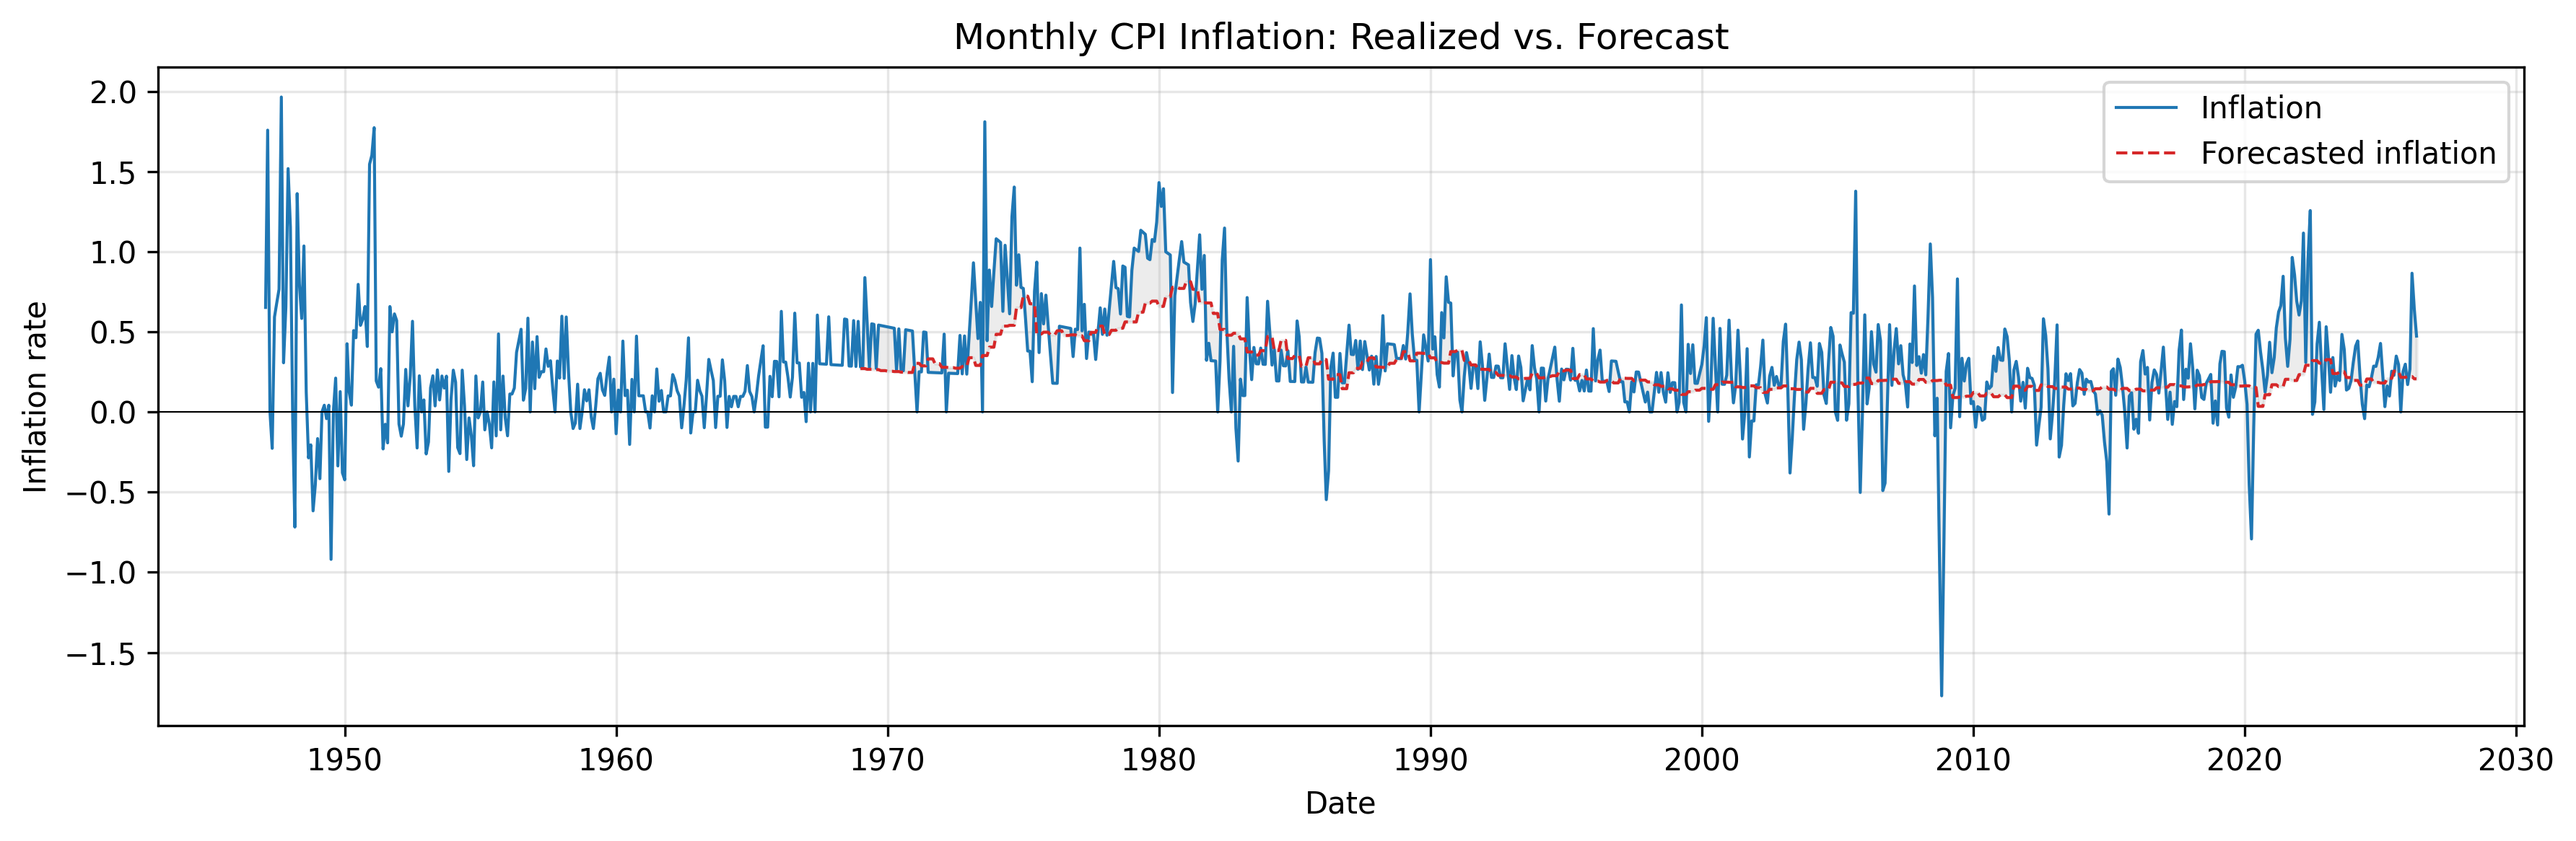
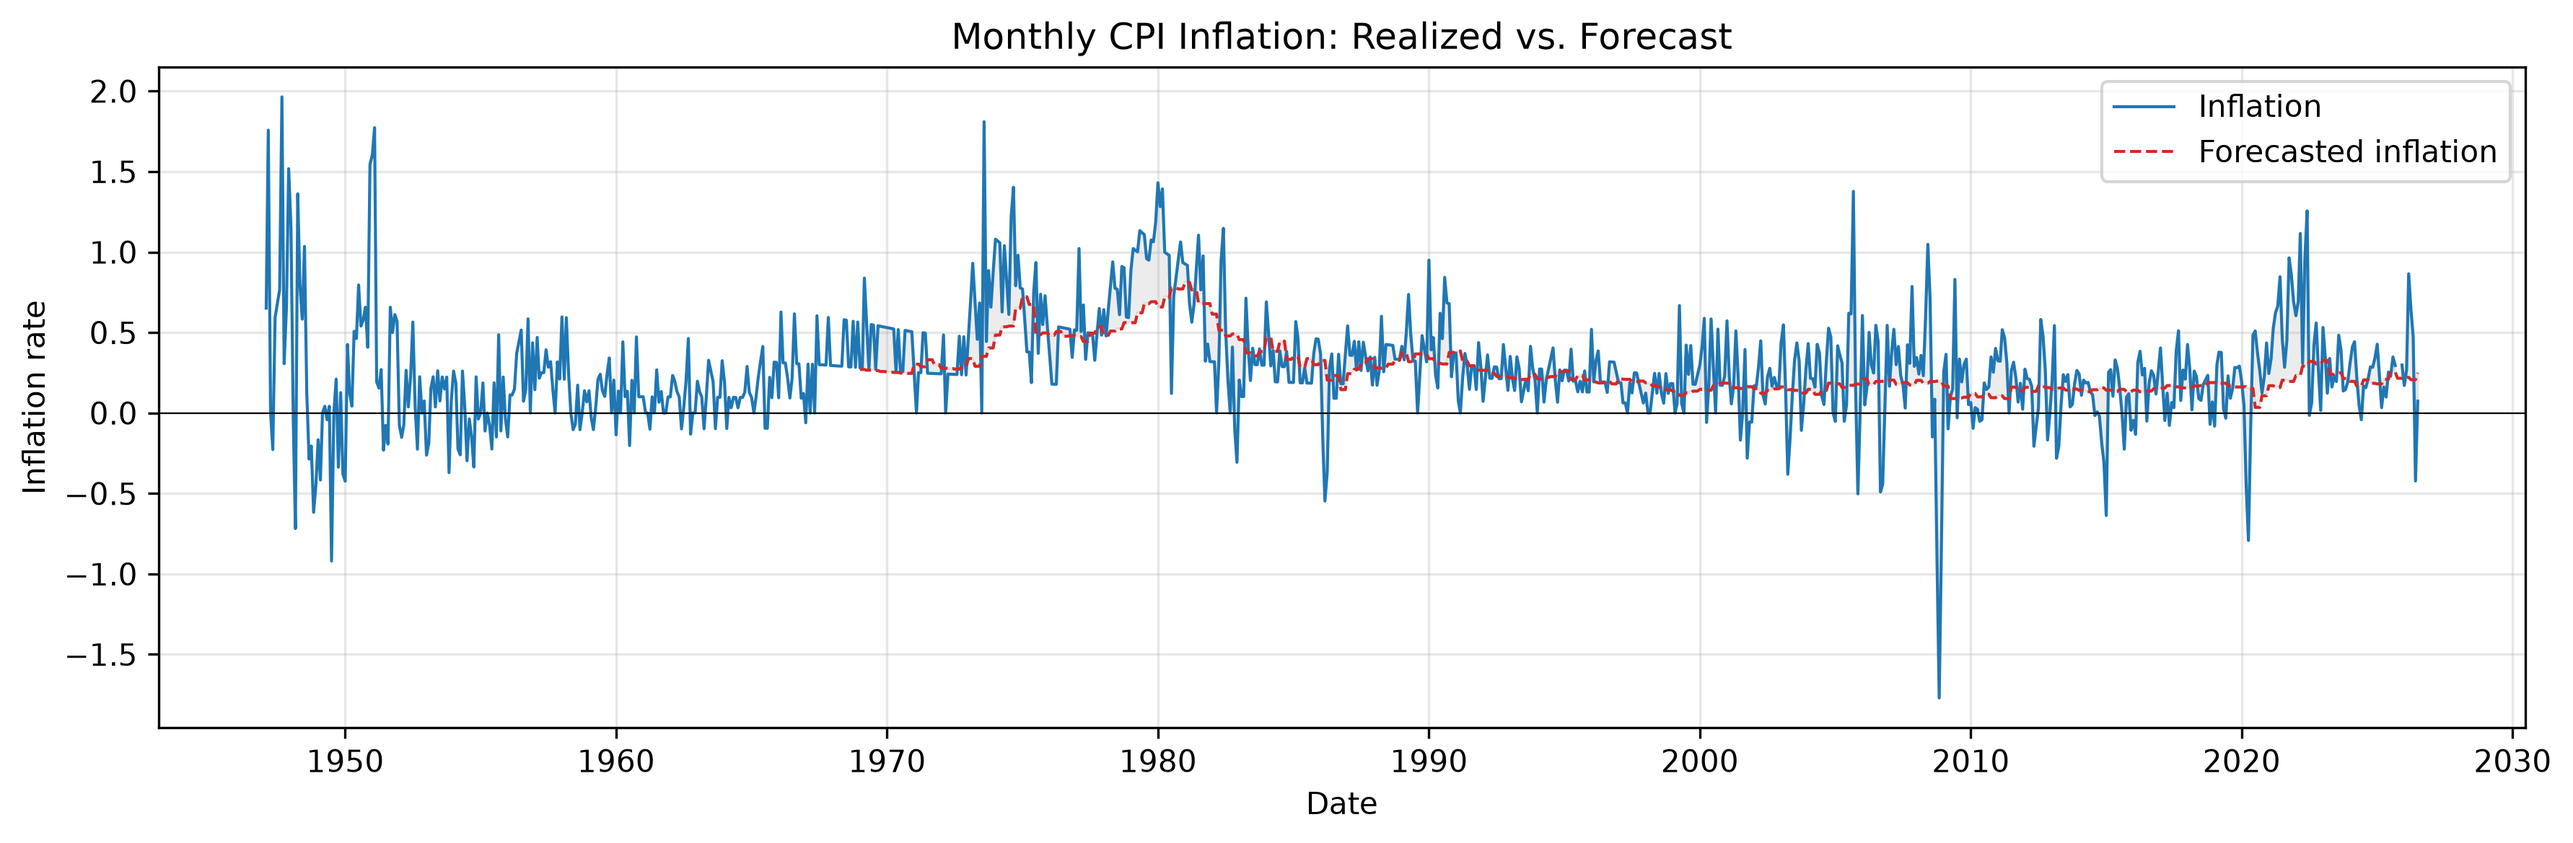
minor changes and will continue good work

diff --git a/DataSummary/README.md b/DataSummary/README.md
@@ -22,7 +22,7 @@ Construction rules:
 - **Monthly SPF expected inflation**: the quarterly value de-compounded geometrically, $\left((1+q/100)^{1/3}-1\right)\times 100$, held constant within the quarter.
 - **Inflation shock**: realized inflation minus SPF expected inflation, at both frequencies.
 
-The workbook and the pickled estimation datasets are regenerated by `update_inflation_data.py` (downloads both sources and rewrites the files; pass `--write-quarterly-pkl` to also regenerate the quarterly pickle). On the overlap with the 2023 snapshot, the SPF series is identical at every date; CPIAUCSL levels and inflation differ only from 2019 onward (max 0.29 index points, max 0.17 percentage points of monthly inflation) because BLS revises recent seasonal-adjustment factors each year. Both pickles were regenerated on 2026-07-14: the quarterly effective sample now runs 1969Q2--2026Q1 (228 observations) and the monthly effective sample 1969M2--2026M5 (688 observations). Quarterly estimation results produced before this update (GARCH, regime-switching, BEGE, OLS mean processes) were estimated on the previous 1969Q2--2022Q4 (215-observation, 2023-vintage) sample and remain comparable with each other but not with re-estimates on the updated sample.
+The workbook and the pickled estimation datasets are regenerated by `update_inflation_data.py` (downloads both sources and rewrites the files; pass `--write-quarterly-pkl` to also regenerate the quarterly pickle). On the overlap with the 2023 snapshot, the SPF series is identical at every date; CPIAUCSL levels and inflation differ only from 2019 onward (max 0.29 index points, max 0.17 percentage points of monthly inflation) because BLS revises recent seasonal-adjustment factors each year. The quarterly pickle was regenerated on 2026-07-14: the quarterly effective sample runs 1969Q2--2026Q1 (228 observations). The monthly pickle was regenerated on 2026-08-30: the monthly effective sample now runs 1969M2--2026M7 (690 observations). Quarterly estimation results produced before the 2026-07-14 update (GARCH, regime-switching, BEGE, OLS mean processes) were estimated on the previous 1969Q2--2022Q4 (215-observation, 2023-vintage) sample and remain comparable with each other but not with re-estimates on the updated sample.
 
 ```{figure} cpi_inflation_quarterly.png
 :name: fig:cpi_inflation_quarterly
@@ -35,8 +35,8 @@ Inflation data are available from 1947, but the professional forecast series beg
 |               |   Inflation |   Forecasted inflation | 
 |:--------------|------------:|-----------------------:|
 | Date Start    |      1947Q2 |                 1969Q1 |
-| Date End      |      2026Q1 |                 2026Q1 |
-| #Observations |         316 |                    229 |
+| Date End      |      2026Q2 |                 2026Q4 |
+| #Observations |         317 |                    230 |
 ```
 
 ## Effective Sample

diff --git a/BEGE_GARCH/EGARCH_BEGE/SPECIFICATION.md b/BEGE_GARCH/EGARCH_BEGE/SPECIFICATION.md
@@ -3,16 +3,8 @@
 ```
 
 # EGARCH BEGE Specification
-
-This folder contains an extension of the Full BEGE model in which the shape
-processes follow EGARCH-type recursions instead of the GJR-type recursions
-used by the canonical five BEGE specifications. It was added as an explicit
-extension of the documented BEGE menu; the canonical menu in
-`BEGE_GARCH/README.md` is unchanged.
-
-## Residual Dynamics
-
-As in every BEGE specification, the inflation residual is
+  
+The inflation residual is
 
 $$
 u_t = \sigma_p \omega_{p,t} - \sigma_n \omega_{n,t},
@@ -37,8 +29,6 @@ z_t = \frac{u_t}{\sigma_t},
 \sigma_t^n = \sigma_n \sqrt{n_t}.
 $$
 
-## EGARCH Shape Recursions
-
 The EGARCH BEGE model applies an EGARCH(1,1)-type update to each component
 volatility, using the project-wide fixed $\sqrt{2/\pi}$ centering convention
 for the magnitude term:
@@ -56,14 +46,8 @@ $$
 \end{aligned}
 $$
 
-Here $\alpha$ is the magnitude (size) loading and $\gamma$ is the sign
-(asymmetry) loading, following standard EGARCH notation. (The original
-proposal note wrote $\alpha_n$ for both loadings; the second loading is
-denoted $\gamma_n$ here so the two effects are separately parameterized.)
-
 Because $\ln(\sigma_t^p)^2 = \ln p_t + 2\ln\sigma_p$, this is equivalent to an
-EGARCH recursion directly on the *log shapes*, which is the parameterization
-used in the code:
+EGARCH recursion directly on the *log shapes*:
 
 $$
 \begin{aligned}
@@ -75,8 +59,7 @@ $$
 $$
 
 with the intercept mapping
-$\omega_p = \omega_p^\sigma - 2(1-\beta_p)\ln\sigma_p$ (and analogously for
-$n$). The two parameterizations describe the same model; $\omega_p$ and
+$\omega_p = \omega_p^\sigma - 2(1-\beta_p)\ln\sigma_p$. The two parameterizations describe the same model; $\omega_p$ and
 $\sigma_p$ are separately identified because $\sigma_p$ also enters the BEGE
 density directly as the gamma scale, exactly as in the GJR-type BEGE models.
 

diff --git a/DataSummary/inflation_summary_stats_monthly_trimmed.md b/DataSummary/inflation_summary_stats_monthly_trimmed.md
@@ -9,20 +9,20 @@
 |                 |   Inflation |     SPF |   SPF_shock |
 |:----------------|------------:|--------:|------------:|
 | Date Start      |     1969-02 | 1969-02 |     1969-02 |
-| Date End        |     2026-05 | 2026-05 |     2026-05 |
-| #Observations   |         688 |     688 |         688 |
-| Mean            |      0.3260 |  0.2729 |      0.0531 |
+| Date End        |     2026-07 | 2026-07 |     2026-07 |
+| #Observations   |         688 |     690 |         688 |
+| Mean            |      0.3252 |  0.2728 |      0.0522 |
 | Median          |      0.2751 |  0.2099 |      0.0415 |
-| Std             |      0.3242 |  0.1597 |      0.2736 |
+| Std             |      0.3254 |  0.1595 |      0.2748 |
 | Min             |     -1.7705 |  0.0349 |     -1.9684 |
 | Max             |      1.8100 |  0.8123 |      1.4582 |
-| P5              |     -0.0750 |  0.1160 |     -0.3390 |
-| P25             |      0.1648 |  0.1600 |     -0.0779 |
+| P5              |     -0.0801 |  0.1160 |     -0.3417 |
+| P25             |      0.1630 |  0.1600 |     -0.0781 |
 | P75             |      0.4776 |  0.3271 |      0.1893 |
 | P95             |      0.9523 |  0.6584 |      0.4787 |
-| Skewness        |      0.1761 |  1.4311 |     -0.4131 |
-| Excess kurtosis |      4.1945 |  1.4523 |      6.7279 |
-| AC(1)           |      0.6266 |  0.9902 |      0.4636 |
-| AC(2)           |      0.4439 |  0.9804 |      0.1968 |
-| AC(4)           |      0.4038 |  0.9623 |      0.1149 |
-| AC(12)          |      0.2932 |  0.8894 |     -0.0080 |
+| Skewness        |      0.1654 |  1.4349 |     -0.4197 |
+| Excess kurtosis |      4.1354 |  1.4674 |      6.6112 |
+| AC(1)           |      0.6230 |  0.9901 |      0.4596 |
+| AC(2)           |      0.4384 |  0.9803 |      0.1901 |
+| AC(4)           |      0.4004 |  0.9623 |      0.1116 |
+| AC(12)          |      0.2978 |  0.8894 |     -0.0003 |

diff --git a/README.md b/README.md
@@ -4,7 +4,7 @@ This computational notebook documents the data construction, model specification
  
 This notebook is organized around five pieces.
 
-1. **Data summary.** The data section constructs the effective inflation sample  **1969Q2--2022Q4**, with **215 observations** and give statistical summary.  
+1. **Data summary.** The data section constructs the effective inflation sample  **1969Q2--2026Q1** (quarterly, **228 observations**) and **1969M2--2026M7** (monthly, **690 observations**) and give statistical summary.  
 
 2. **Mean processes.** The mean-process menu includes Constant, ARX(1,1), ARX(2,1), and ARX(2,2) specifications. These define $\hat{\pi}_t$ and therefore the residual sequence passed to volatility models.
 
